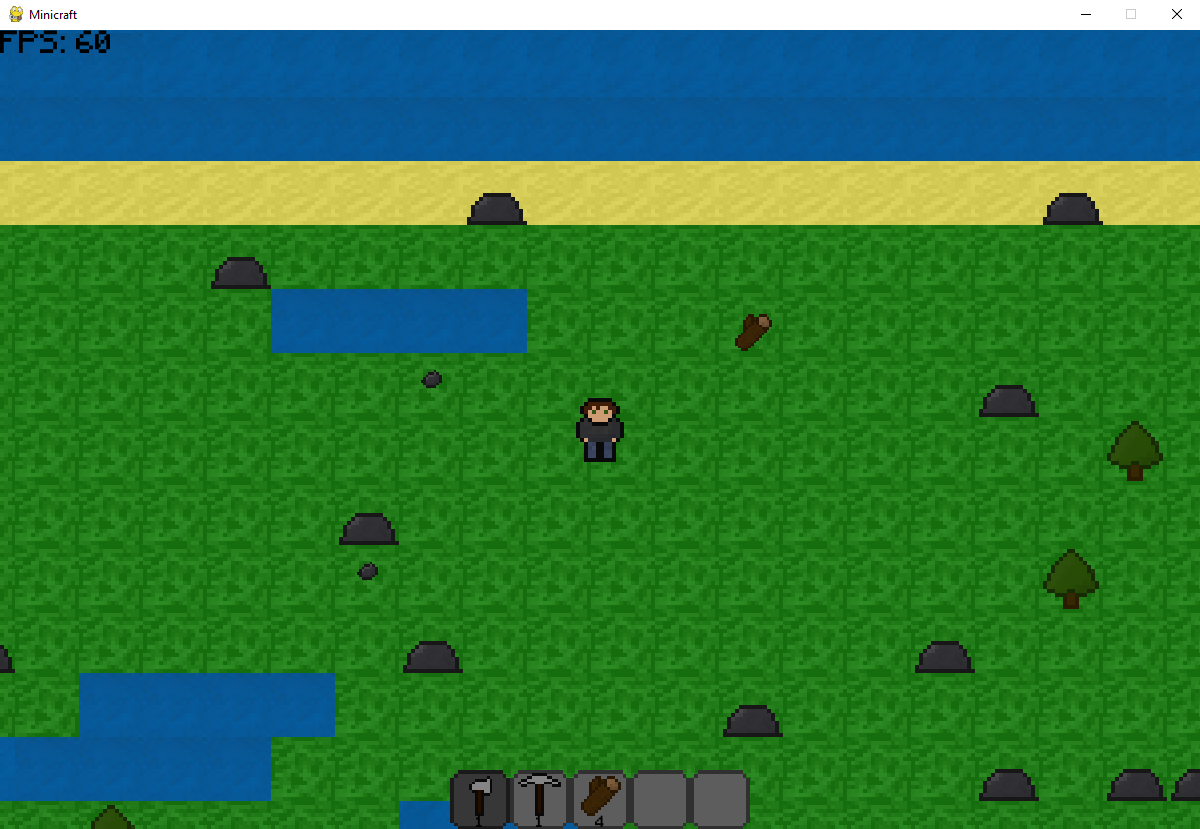
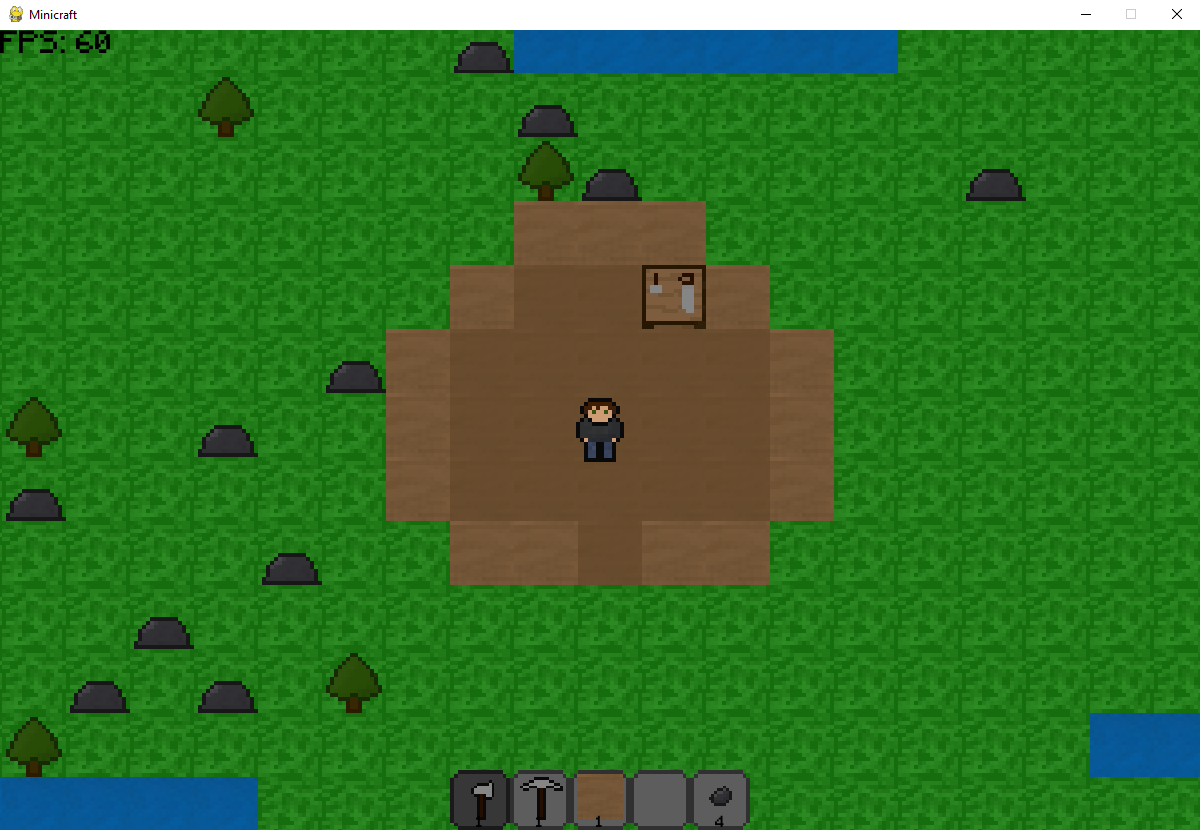
New items

diff --git a/inventory.py b/inventory.py
@@ -16,7 +16,7 @@ class Inventory:
         self.hotbar_texture = self.spritesheet_ui.image(UI_HOTBAR_ITEM, size=(self.hotbar_item_size, self.hotbar_item_size))
         self.hotbar_dark_texture = self.spritesheet_ui.image(UI_HOTBAR_ITEM_DARK, size=(self.hotbar_item_size, self.hotbar_item_size))
         self.hotbar_length = 5
-        self.hotbar = [[AXE, 1], [PICAXE, 1], [CRAFTING_TABLE, 1], [PLANK, 1], [STICK, 4]]
+        self.hotbar = [[AXE, 1], [PICAXE, 1], [CRAFTING_TABLE, 1], [PLANK_BLOCK, 64], [DOOR_CLOSED, 2]]
         self.selected_hotbar_slot = 0
         self.selected_hotbar_inventory_slot = 0
 
@@ -29,6 +29,7 @@ class Inventory:
         for i in range(self.inventory_length * self.inventory_length):
             self.inventory.append([-1, -1])
         self.inventory[0] = [LOG, 64]
+        self.inventory[1] = [PLANK, 64]
         self.hovering_item = None
         self.select_hover_time = time.time()
 
@@ -44,11 +45,8 @@ class Inventory:
                 self.window.get().blit(self.spritesheet.image(self.hotbar[i][0], size=(self.hotbar_item_size / 1.3, self.hotbar_item_size / 1.3)), (pos[0] + 7, pos[1] + 4))
                 Text(self.font, str(self.hotbar[i][1]), (0, 0, 0), (pos[0] + self.hotbar_item_size / 2 - self.font.size(str(self.hotbar[i][1]))[0] / 2, pos[1] + self.hotbar_item_size - 15)).draw(self.window.get())
             pos[0] += self.hotbar_item_size
-
-        #if self.hotbar[self.selected_hotbar_slot][0] != -1:
-        #    self.window.get().blit(pygame.transform.scale(self.hotbar_texture, (100, 100)), (0, 64))
-        #    self.window.get().blit(self.spritesheet.image(self.hotbar[self.selected_hotbar_slot][0], size=(self.hotbar_item_size / 1.3, self.hotbar_item_size / 1.3)), (7, 68))
-        #    Text(self.font, str(self.hotbar[i][1]), (0, 0, 0), (0 + self.hotbar_item_size / 2 - self.font.size(str(self.hotbar[i][1]))[0] / 2, 68 + self.hotbar_item_size - 15)).draw(self.window.get())
+            if self.inventory[i][1] <= 0:
+                self.inventory[i] = [-1, -1]
 
     
     def draw_inventory(self):
@@ -78,9 +76,12 @@ class Inventory:
                     self.window.get().blit(self.spritesheet.image(self.inventory[idx][0], size=(self.inventory_item_size / 1.3, self.inventory_item_size / 1.3)), (pos[0] + 7, pos[1] + 4))
                     Text(self.font, str(self.inventory[idx][1]), (0, 0, 0), (pos[0] + self.inventory_item_size / 2 - self.font.size(str(self.inventory[idx][1]))[0] / 2, pos[1] + self.inventory_item_size - 15)).draw(self.window.get())
                 pos[0] += self.inventory_item_size
+                if self.inventory[idx][1] <= 0:
+                    self.inventory[idx] = [-1, -1]
                 idx += 1
             pos[1] += self.inventory_item_size
             pos[0] = self.window.size[0] / 12
+
 
         pos = [self.window.get_center()[0] - (self.hotbar_length / 2 * self.hotbar_item_size), self.window.size[1] - self.hotbar_item_size]
         for i in range(self.hotbar_length):
@@ -126,25 +127,25 @@ class Inventory:
     
 
     def add_item(self, item: Tuple[int, int]):
-        free_slot = None
+        free_slot_hotbar = None
         for items in self.hotbar:
             if items[0] == item[0]:
                 items[1] += item[1]
                 return
             if items[0] == -1:
-                free_slot = self.hotbar.index(items)
-        if free_slot is not None:
-            self.hotbar[free_slot] = item
-            return
-
+                free_slot_hotbar = self.hotbar.index(items)
         for items in self.inventory:
             if items[0] == item[0]:
                 items[1] += item[1]
                 return
             if items[0] == -1:
                 free_slot = self.inventory.index(items)
+        if free_slot_hotbar is not None:
+            self.hotbar[free_slot_hotbar] = [item[0], item[1]]
+            return
+        
         if free_slot is not None:
-            self.inventory[free_slot] = item
+            self.inventory[free_slot] = [item[0], item[1]]
             return
         
 
@@ -158,18 +159,19 @@ class Inventory:
 
 
     def remove(self, item: Tuple[int, int]):
-        for items in self.inventory + self.hotbar:
+        idx = 0
+        for items in self.inventory:
             if items[0] == item[0]:
                 items[1] -= item[1]
                 if items[1] <= 0:
-                    items = [-1, -1]
+                    self.inventory[idx] = [-1, -1]
 
 
     def has(self, item: Tuple[int, int]):
-        for items in self.inventory + self.hotbar:
+        for items in self.inventory:
             if item[0] == items[0]:
                 if item[1] == -1:
                     return True
-                elif item[1] >= items[1]:
+                elif items[1] >= item[1]:
                     return True
-        return True
+        return False

diff --git a/environment.py b/environment.py
@@ -93,11 +93,19 @@ class Environment:
         for block in self.map:
             if self.in_boundaries(block, offset):
                 block.draw(offset=offset)
+                
                 if block.collidable or block.texture_id in BLOCK_COLLIDABLE:
-                    self.player.check_collision(block)
+                    collided = self.player.check_collision(block)
+                if block.texture_id == DOOR_CLOSED:
+                    if block.collide_rect(self.player.player.rect, offset=offset):
+                        block.set_texture(self.spritesheet.image(DOOR_OPENED))
+                        block.texture_id = DOOR_OPENED
+                if block.texture_id == DOOR_OPENED:
+                    if not block.collide_rect(self.player.player.rect, offset=offset):
+                        block.set_texture(self.spritesheet.image(DOOR_CLOSED))
+                        block.texture_id = DOOR_CLOSED
 
                 mouse_pos = pygame.mouse.get_pos()
-                #mouse_pos = [mouse_pos[0] - offset[0], mouse_pos[1] - offset[1]]
                 if dist_point(self.player.player.center, mouse_pos) <= 3 * self.sprite_size and block.collide_point(mouse_pos, offset=offset):
                     self.selected_block = block
                     self.player.selected_block = block
@@ -120,7 +128,7 @@ class Environment:
             item.loop()
             if dist_point(self.player.player.center, (item.pos[0] + offset[0], item.pos[1] + offset[1])) < self.sprite_size:
                 self.ground_items.remove(item)
-                self.player.inventory.add_item(item.type)
+                self.player.inventory.add_item([item.type, 1])
 
         if changed_water_tex:
             self.water_animation_timer = 0
@@ -140,10 +148,15 @@ class Environment:
         for block in self.player.blocks_to_remove:
             if block in self.map:
                 if len(block.type) <= 1:
-                    result = BLOCK_DROPS[block.texture_id]
+                    results = BLOCK_DROPS[ID_STR(block.type)]
                 else:
-                    result = BLOCK_DROPS[block.type]
-                self.ground_items.append(Item(self.window, self.spritesheet, (block.pos[0] + self.sprite_size / 6, block.pos[1] + self.sprite_size / 6), result, (self.sprite_size / 1.5, self.sprite_size / 1.5)))
+                    results = BLOCK_DROPS[block.type]
+                for result in results:
+                    amount = 1
+                    if len(result) == 2:
+                        amount = random.randint(result[1], result[2])
+                    for item in range(0, amount):
+                        self.ground_items.append(Item(self.window, self.spritesheet, (block.pos[0] + self.sprite_size / 6 + random.randint(-50, 50), block.pos[1] + self.sprite_size / 6 + random.randint(-50, 50)), result[0], (self.sprite_size / 1.5, self.sprite_size / 1.5)))
                 self.map.remove(block)
         for block in self.player.blocks_to_add:
             self.map.append(Rect(self.selected_block.pos, self.selected_block.size, (0, 0, 0), "", self.window.get(), self.spritesheet.image(block[0], size=(self.sprite_size, self.sprite_size)), texture_id=block[0]))

diff --git a/spritesheet.py b/spritesheet.py
@@ -69,39 +69,70 @@ PICAXE = 33
 STONE_AXE = 34
 STONE_PICKAXE = 35
 CRAFTING_TABLE = 48
+PLANK_BLOCK = 49
+PLANK_FLOOR = 50
+DOOR_CLOSED = 51
+DOOR_OPENED = 52
 
 UI_HOTBAR_ITEM = 0
 UI_HOTBAR_ITEM_DARK = 1
 UI_INVENTORY_ITEM = 2
 UI_INVENTORY_ITEM_DARK = 3
 
+BLOCK_BREAKING = {
+    "AXE": ["TREE_1", "CRAFTING_TABLE", "PLANK_BLOCK", "PLANK_FLOOR", "DOOR_CLOSED"],
+    "STONE_AXE": ["TREE_1", "CRAFTING_TABLE", "PLANK_BLOCK", "PLANK_FLOOR", "DOOR_CLOSED"],
+    "STONE_PICKAXE": ["ROCK_1"],
+    "PICKAXE": ["ROCK_1"]
+}
+
 BLOCK_DROPS = {
-    "TREE_1": LOG,
-    "ROCK_1": STONE,
-    "CRAFTING_TABLE": CRAFTING_TABLE,
-    TREE_1: LOG,
-    ROCK_1: STONE,
-    CRAFTING_TABLE: CRAFTING_TABLE
+    "TREE_1": [[LOG, 1, 5], [STICK, 0, 2]],
+    "ROCK_1": [[STONE, 1, 4]],
+    "CRAFTING_TABLE": [[CRAFTING_TABLE, 1]],
+    "PLANK_BLOCK": [[PLANK_BLOCK, 1]],
+    "PLANK_FLOOR": [[PLANK_FLOOR, 1]],
+    "DOOR_CLOSED": [[DOOR_CLOSED, 1]]
 }
 
 BLOCK_PLACABLE = [
-    CRAFTING_TABLE
+    CRAFTING_TABLE,
+    PLANK_BLOCK,
+    PLANK_FLOOR,
+    DOOR_CLOSED
 ]
 
 BLOCK_COLLIDABLE = [
     TREE_1,
     ROCK_1,
-    CRAFTING_TABLE
+    CRAFTING_TABLE,
+    PLANK_BLOCK,
 ]
 
 BACKGROUND_BLOCKS = [
     GRASS_BLOCK,
-    SAND_BLOCK
+    SAND_BLOCK,
+    PLANK_FLOOR
 ]
 
 ITEM_ID = {
+    TREE_1: "TREE_1",
+    ROCK_1: "ROCK_1",
+    CRAFTING_TABLE: "CRAFTING_TABLE",
+    PLANK_BLOCK: "PLANK_BLOCK",
+    PLANK_FLOOR: "PLANK_FLOOR",
     LOG: "LOG",
     STONE: "STONE",
     PLANK: "PLANK",
-    STICK: "STICK"
+    STICK: "STICK",
+    AXE: "AXE",
+    PICAXE: "PICKAXE",
+    DOOR_CLOSED: "DOOR_CLOSED",
+    DOOR_OPENED: "DOOR_OPENED"
 }
+
+def ID_STR(id: int):
+    if id in ITEM_ID:
+        for item in ITEM_ID:
+            if item == id:
+                return ITEM_ID[item]

diff --git a/player.py b/player.py
@@ -65,9 +65,12 @@ class Player:
                 collider.draw()
 
     def check_collision(self, block: Rect):
+        collided = False
         for collider in self.colliders:
             if block.collide_rect(collider.rect, offset=self.offset):
                 self.collided[self.colliders.index(collider)] = True
+                collided = True
+        return collided
 
     def loop(self, delta_time):
         self.update_colliders()
@@ -118,14 +121,11 @@ class Player:
         current_tool = self.inventory.item
 
         if self.selected_block != 0:
-            if current_tool[0] == AXE:
-                if self.selected_block.type == "TREE_1" or self.selected_block.texture_id == TREE_1:
-                    self.blocks_to_remove.append(self.selected_block)
-                elif self.selected_block.texture_id == CRAFTING_TABLE:
-                    self.blocks_to_remove.append(self.selected_block)
-            elif current_tool[0] == PICAXE:
-                if self.selected_block.type == "ROCK_1" or self.selected_block.texture_id == ROCK_1:
-                    self.blocks_to_remove.append(self.selected_block)
+            type = ID_STR(self.selected_block.texture_id)
+            for tool in BLOCK_BREAKING:
+                if ID_STR(current_tool[0]) == tool:
+                    if type in BLOCK_BREAKING[tool]:
+                        self.blocks_to_remove.append(self.selected_block)
 
     def place(self):
         if self.inventory.item[0] in BLOCK_PLACABLE and self.selected_block.texture_id in BACKGROUND_BLOCKS:

diff --git a/crafting.py b/crafting.py
@@ -45,7 +45,6 @@ class Crafting:
                             req_pass = False
                     if req_pass:
                         item = CRAFTING_RECIPES[recipe][-1]
-                        #print(item)
                         for req in req_items:
                             inventory.remove(req)
                         inventory.add_item(item)
@@ -58,5 +57,9 @@ class Crafting:
 CRAFTING_RECIPES = {
     "STICK": [(LOG, 2), (STICK, 4)],
     "PLANK": [(LOG, 4), (PLANK, 4)],
-    "STONE_AXE": [(STICK, 2), (STONE, 3), (STONE_AXE, 1)]
+    "STONE AXE": [(STICK, 2), (STONE, 3), (STONE_AXE, 1)],
+    "STONE PICKAXE": [(STICK, 2), (STONE, 3), (STONE_PICKAXE, 1)],
+    "PLANKS BLOCK": [(PLANK, 4), (PLANK_BLOCK, 1)],
+    "PLANKS FLOOR": [(PLANK, 4), (PLANK_FLOOR, 1)],
+    "DOOR": [(PLANK, 6), (DOOR_CLOSED, 1)]
 }
